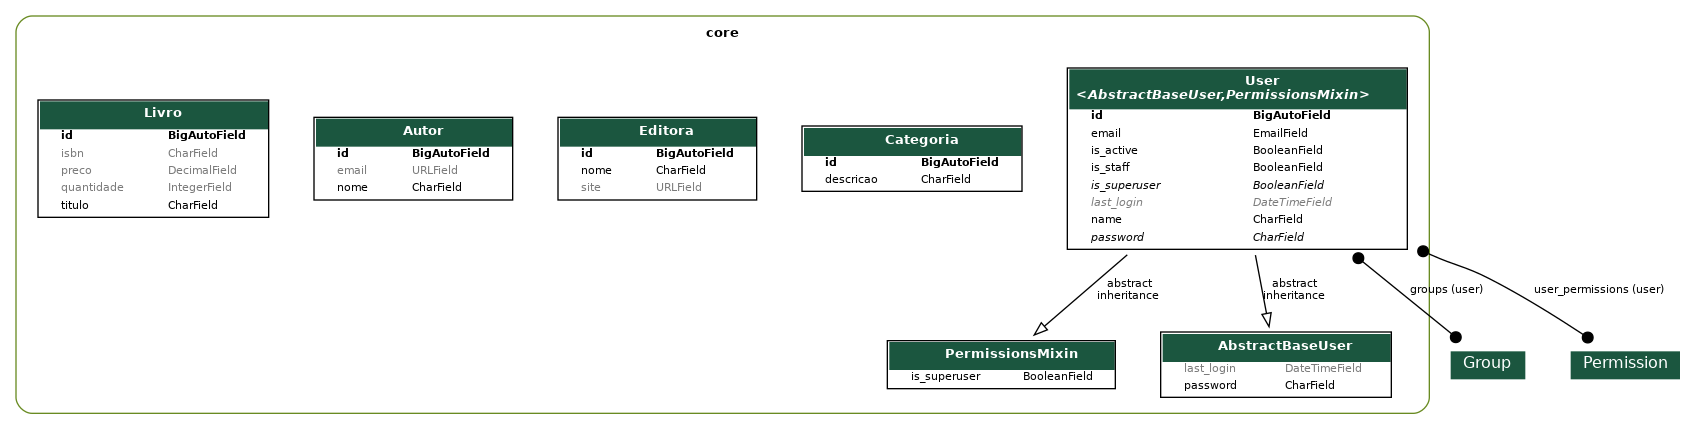
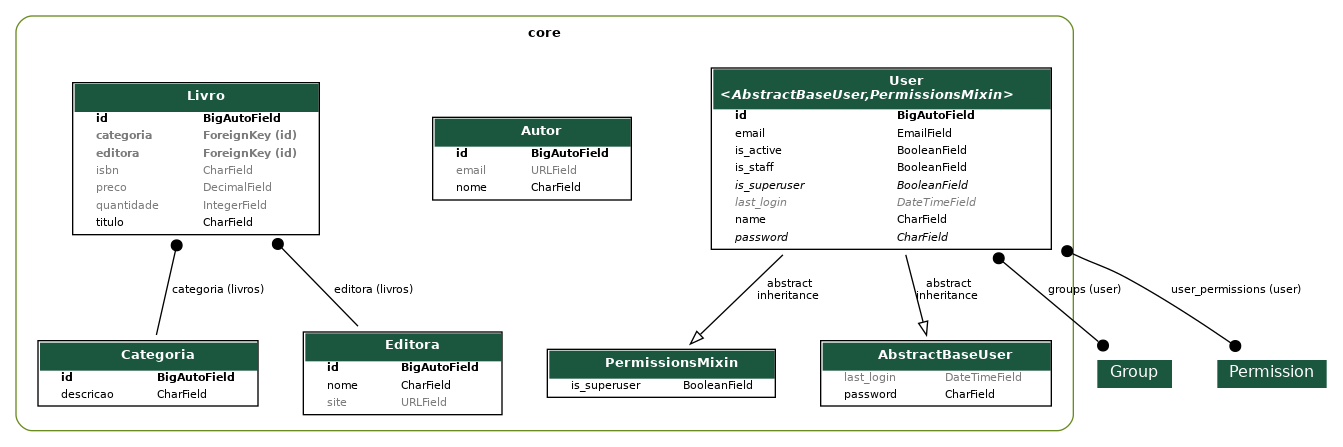
adição da categoria e editora na tabela livros

diff --git a/core/models/livro.py b/core/models/livro.py
@@ -1,10 +1,22 @@
 from django.db import models
+from .categoria import Categoria
+from .editora import Editora
 
 class Livro(models.Model):
     titulo = models.CharField(max_length=255)
     isbn = models.CharField(max_length=32, null=True, blank=True)
     quantidade = models.IntegerField(default=0,  null=True, blank=True)
     preco = models.DecimalField(max_digits=7, decimal_places=2, default=0, null=True, blank=True)
+
+    categoria = models.ForeignKey(
+    Categoria, on_delete=models.PROTECT, related_name="livros", null=True, blank=True
+    )
+
+    editora = models.ForeignKey(
+    Editora, on_delete=models.PROTECT, related_name="livros", null=True, blank=True
+    )
+
+
 
     def __str__(self):
         return f" |{self.id}| {self.titulo} ({self.quantidade})"

diff --git a/core/migrations/0004_livro_categoria.py b/core/migrations/0004_livro_categoria.py
@@ -1,0 +1,25 @@
+# Generated by Django 5.0.2 on 2024-07-29 14:43
+
+import django.db.models.deletion
+from django.db import migrations, models
+
+
+class Migration(migrations.Migration):
+
+    dependencies = [
+        ("core", "0003_autor_editora_livro"),
+    ]
+
+    operations = [
+        migrations.AddField(
+            model_name="livro",
+            name="categoria",
+            field=models.ForeignKey(
+                blank=True,
+                null=True,
+                on_delete=django.db.models.deletion.PROTECT,
+                related_name="livros",
+                to="core.categoria",
+            ),
+        ),
+    ]

diff --git a/core/migrations/0005_livro_editora.py b/core/migrations/0005_livro_editora.py
@@ -1,0 +1,25 @@
+# Generated by Django 5.0.2 on 2024-07-29 14:48
+
+import django.db.models.deletion
+from django.db import migrations, models
+
+
+class Migration(migrations.Migration):
+
+    dependencies = [
+        ("core", "0004_livro_categoria"),
+    ]
+
+    operations = [
+        migrations.AddField(
+            model_name="livro",
+            name="editora",
+            field=models.ForeignKey(
+                blank=True,
+                null=True,
+                on_delete=django.db.models.deletion.PROTECT,
+                related_name="livros",
+                to="core.editora",
+            ),
+        ),
+    ]
